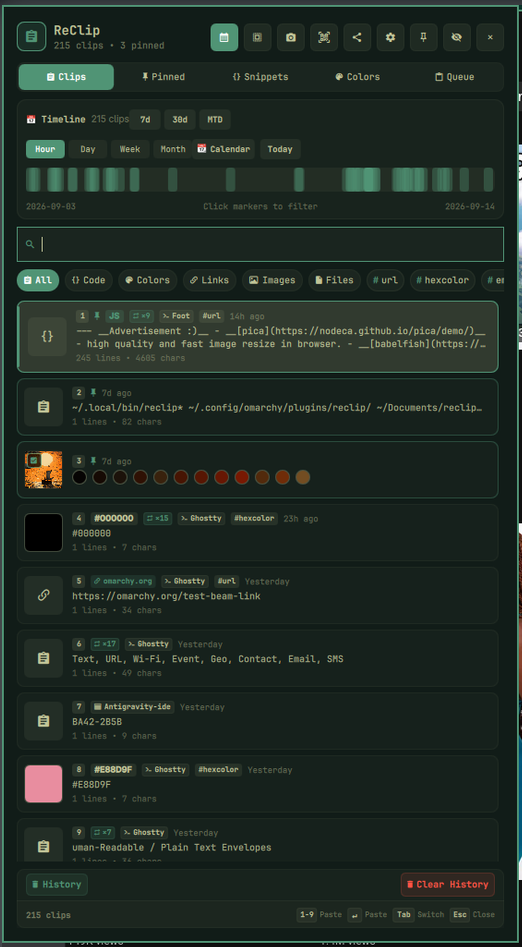
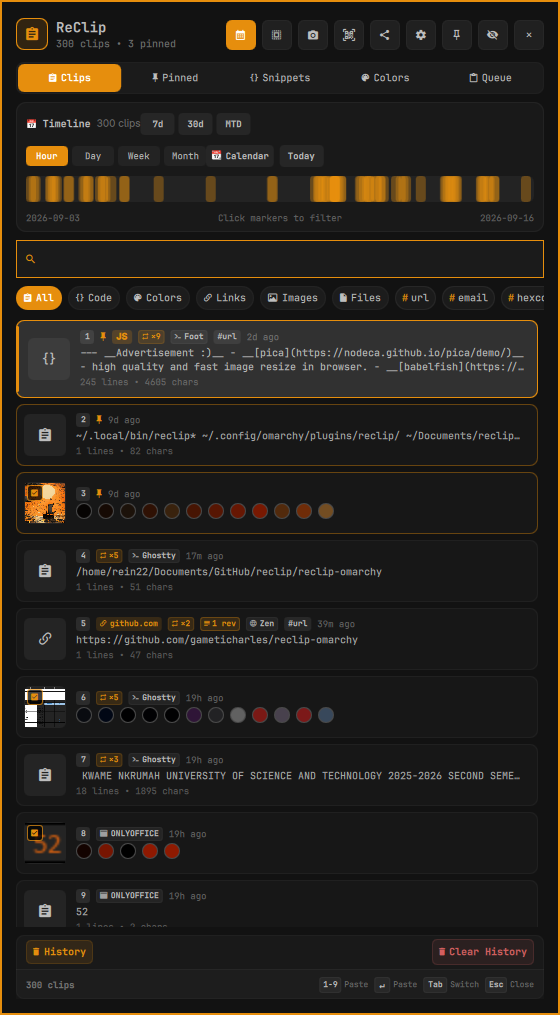
fix: ensure copy actions write to system clipboard and add paste support

diff --git a/QRFilesTab.qml b/QRFilesTab.qml
@@ -252,8 +252,12 @@ RowLayout {
                           hoverEnabled: true
                           cursorShape: Qt.PointingHandCursor
                           onClicked: {
-                            root.copiedText(root.fileSharePin)
-                            root.showFeedback("✓ PIN " + root.fileSharePin + " copied")
+                            var pin = root.fileSharePin
+                            if (pin && pin.length > 0) {
+                              Quickshell.execDetached(["bash", "-c", "printf '%s' " + Util.shellQuote(pin) + " | wl-copy"])
+                            }
+                            root.copiedText(pin)
+                            root.showFeedback("✓ PIN " + pin + " copied")
                           }
                         }
                         PanelToolTip {
@@ -349,7 +353,11 @@ RowLayout {
                     hoverEnabled: true
                     cursorShape: Qt.PointingHandCursor
                     onClicked: {
-                      root.copiedText(root.fileShareUrl)
+                      var targetUrl = root.fileShareUrl
+                      if (targetUrl && targetUrl.length > 0) {
+                        Quickshell.execDetached(["bash", "-c", "printf '%s' " + Util.shellQuote(targetUrl) + " | wl-copy"])
+                      }
+                      root.copiedText(targetUrl)
                       root.showFeedback("✓ Wi-Fi download link copied to clipboard")
                     }
                   }

diff --git a/QRCodeModal.qml b/QRCodeModal.qml
@@ -1024,6 +1024,7 @@ Rectangle {
 
   function copyDecodedText() {
     if (root.decodedText) {
+      Quickshell.execDetached(["bash", "-c", "printf '%s' " + Util.shellQuote(root.decodedText) + " | wl-copy"])
       root.copiedText(root.decodedText)
       root.showFeedback("✓ Decoded text copied to clipboard!")
     }
@@ -3912,7 +3913,11 @@ Rectangle {
             cursorShape: Qt.PointingHandCursor
             onClicked: {
               root.copyDropdownOpen = false
-              root.copiedText(root.textToEncode)
+              var txt = root.textToEncode
+              if (txt && txt.length > 0) {
+                Quickshell.execDetached(["bash", "-c", "printf '%s' " + Util.shellQuote(txt) + " | wl-copy"])
+              }
+              root.copiedText(txt)
               root.showFeedback("✓ Text copied to clipboard")
             }
           }

diff --git a/Panel.qml b/Panel.qml
@@ -816,8 +816,21 @@ Panel {
   }
 
   function copyText(str) {
-    if (!str) return
-    Quickshell.execDetached(["bash", "-c", "printf '%s' " + Util.shellQuote(str) + " | wl-copy"])
+    if (str === undefined || str === null) return
+    var s = String(str)
+    if (s.length === 0) return
+    Quickshell.execDetached(["bash", "-c", "printf '%s' " + Util.shellQuote(s) + " | wl-copy"])
+  }
+
+  function setSystemClipboard(str) {
+    copyText(str)
+  }
+
+  function pasteClipboard(str) {
+    if (str === undefined || str === null) return
+    var s = String(str)
+    if (s.length === 0) return
+    Quickshell.execDetached(["bash", "-c", "printf '%s' " + Util.shellQuote(s) + " | wl-copy && sleep 0.15 && wtype -M shift -k Insert -m shift"])
   }
 
   function prevMonth() {
